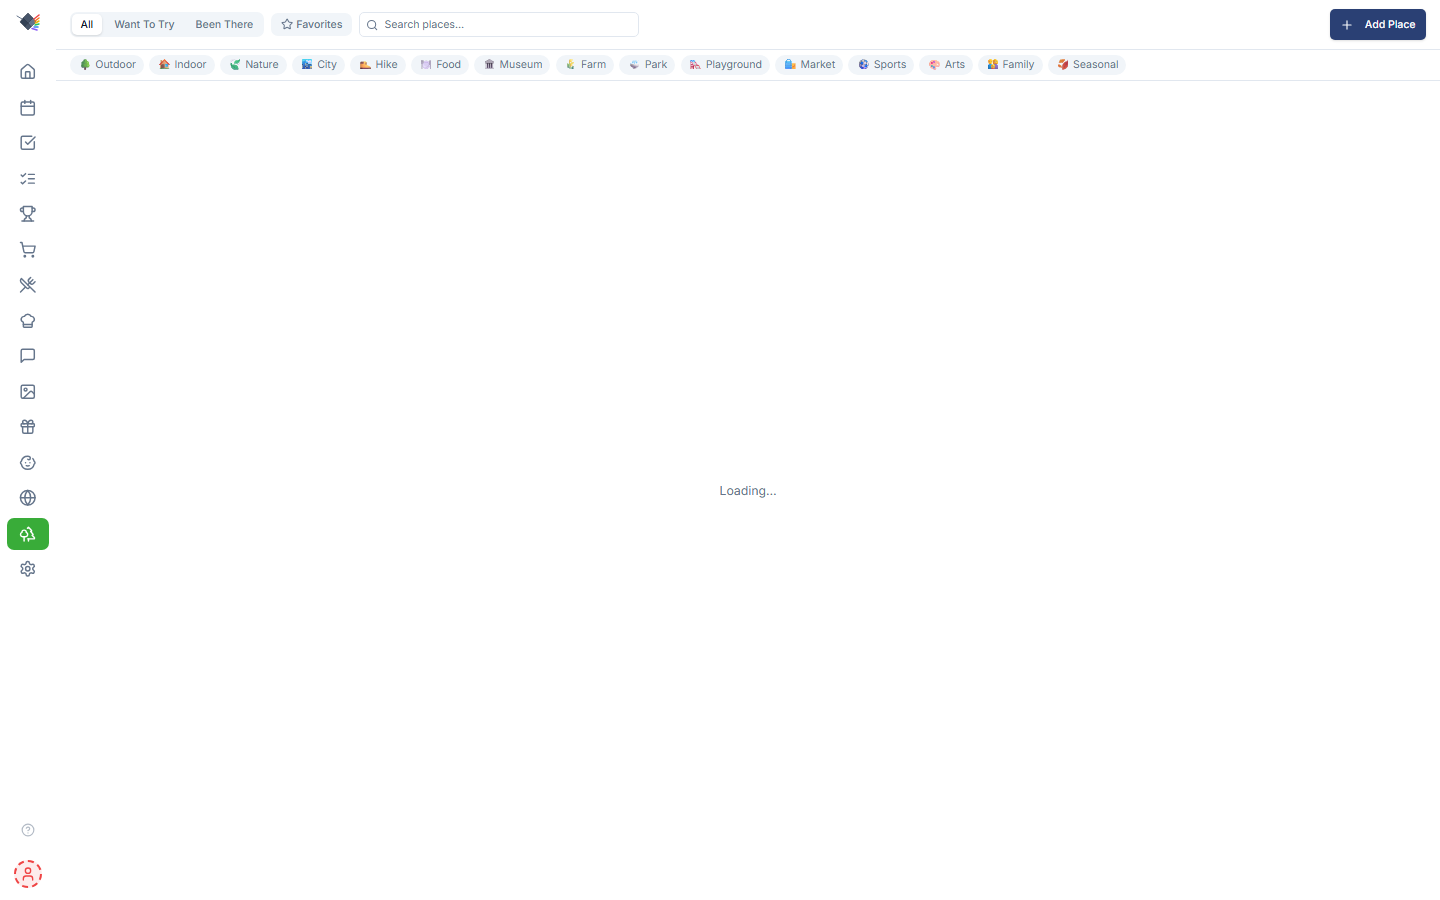
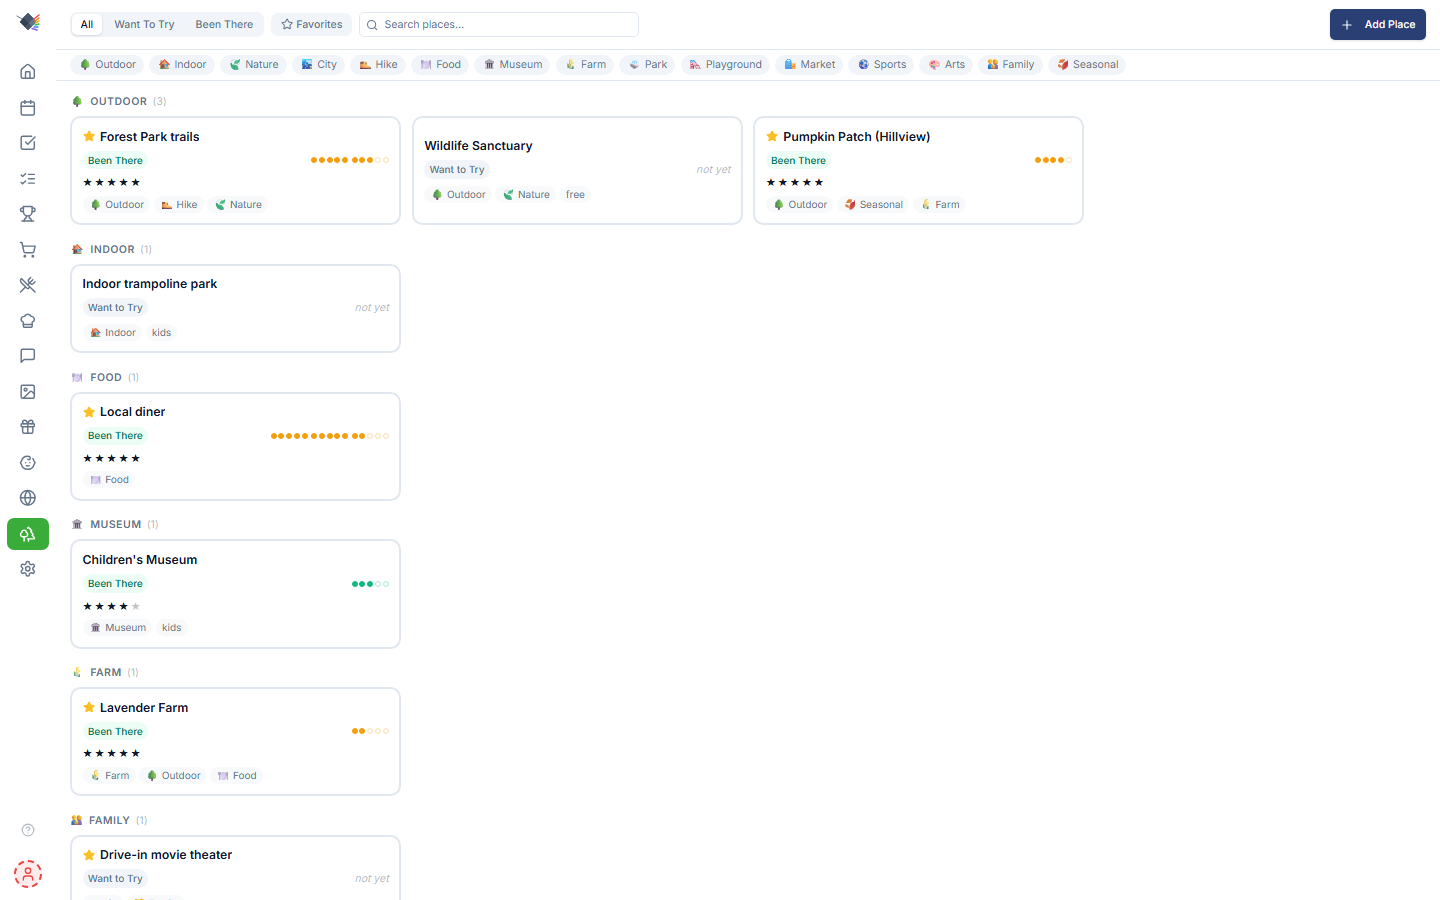
fix(dashboard): mobile cards never populated with data (#47)
* fix(dashboard): mobile cards never populated with data

Both Dashboard.tsx and MobileDashboard.tsx were independently calling
useDashboardData(), so every domain hook (useTasks, useEvents, useChores,
etc.) ran twice in parallel against the same URLs. Combined with StrictMode's
dev double-mount, MobileDashboard's useFetch state got stuck at loading:true
indefinitely while the parent Dashboard's mirror fetches resolved successfully
but never reached the mobile tree.

Lift useDashboardData to a single instance in Dashboard.tsx and pass the
result to MobileDashboard as a prop. Halves the network traffic on dashboard
load and eliminates the race.

Also: fix screenshot capture's waitForContentReady to match the Unicode
ellipsis used in WeekendView's "Loading…" indicator (previously only matched
three literal periods), and bump weekend.png settleMs as a safety margin.
The stale weekend.png in docs/demos showed the loading state for this reason;
regenerated alongside dashboard-mobile.png.

* test(openmeteo): make hourly times test time-of-day-independent

The test planted fixture hours 09:00 / 10:00 / 11:00 today, but the
implementation filters to (now - 1h, now + 12h], so any CI run after
12:00 Chicago time would see all three hours fall outside the window
and the assertion would fail. The original commit happened to land in
the morning Chicago time, so it passed at write time and then started
failing as soon as a CI run landed after lunch.
[…]

diff --git a/src/lib/integrations/__tests__/openmeteo.test.ts b/src/lib/integrations/__tests__/openmeteo.test.ts
@@ -279,9 +279,28 @@ describe('openmeteo.fetchWeatherData', () => {
 
   it('parses hourly times as wall-clock-in-location', async () => {
     // Same regression as the sunrise test, applied to the hourly forecast.
-    const today = localDate(0, 'America/Chicago');
+    // Build the fixture hours relative to `now` in Chicago so the (now-1h, now+12h]
+    // filter window always includes them — otherwise the test is time-of-day
+    // sensitive and fails on CI runs that happen too late in the day.
+    const chicagoNow = new Intl.DateTimeFormat('en-CA', {
+      timeZone: 'America/Chicago',
+      year: 'numeric',
+      month: '2-digit',
+      day: '2-digit',
+      hour: '2-digit',
+      minute: '2-digit',
+      hour12: false,
+    }).formatToParts(new Date());
+    const part = (type: string) => chicagoNow.find((p) => p.type === type)!.value;
+    const baseHour = Number(part('hour'));
+    const ymd = `${part('year')}-${part('month')}-${part('day')}`;
+    const h1 = String(baseHour).padStart(2, '0');
+    const h2 = String((baseHour + 1) % 24).padStart(2, '0');
+    const h3 = String((baseHour + 2) % 24).padStart(2, '0');
+    const fixtureHours = [`${h1}:00`, `${h2}:00`, `${h3}:00`];
+
     const response = buildResponse('America/Chicago');
-    response.hourly.time = [`${today}T09:00`, `${today}T10:00`, `${today}T11:00`];
+    response.hourly.time = fixtureHours.map((h) => `${ymd}T${h}`);
     response.hourly.temperature_2m = [70, 71, 72];
     response.hourly.precipitation_probability = [0, 0, 0];
     response.hourly.precipitation = [0, 0, 0];
@@ -295,9 +314,9 @@ describe('openmeteo.fetchWeatherData', () => {
     const { fetchWeatherData } = await import('../openmeteo');
     const result = await fetchWeatherData();
 
-    // Hourly is filtered to a 12-hour window around `now`, so at least one of
-    // the three fixture hours should survive. Whichever does, its wall-clock
-    // in America/Chicago must read back as one of "09:00" / "10:00" / "11:00".
+    // All three fixture hours straddle `now` so the (now-1h, now+12h] window
+    // catches them. Each surviving hour's wall-clock in Chicago must match
+    // one of the three we planted.
     expect(result.hourly && result.hourly.length).toBeGreaterThan(0);
     if (result.hourly && result.hourly.length > 0) {
       const formatter = new Intl.DateTimeFormat('en-US', {
@@ -307,7 +326,7 @@ describe('openmeteo.fetchWeatherData', () => {
         hour12: false,
       });
       const wallClocks = result.hourly.map((h) => formatter.format(h.time));
-      expect(wallClocks.every((wc) => ['09:00', '10:00', '11:00'].includes(wc))).toBe(true);
+      expect(wallClocks.every((wc) => fixtureHours.includes(wc))).toBe(true);
     }
   });
 

diff --git a/src/components/dashboard/MobileDashboard.tsx b/src/components/dashboard/MobileDashboard.tsx
@@ -22,7 +22,7 @@ import {
 import { CSS } from '@dnd-kit/utilities';
 import { restrictToVerticalAxis } from '@dnd-kit/modifiers';
 import { cn } from '@/lib/utils';
-import { useDashboardData } from './useDashboardData';
+import type { useDashboardData } from './useDashboardData';
 import { useMobileCardOrder, loadHiddenCards } from './useMobileCardOrder';
 import { useBusTracking } from '@/lib/hooks/useBusTracking';
 import {
@@ -66,8 +66,11 @@ function SortableCard({ id, children }: { id: string; children: React.ReactNode 
   );
 }
 
-export const MobileDashboard = memo(function MobileDashboard() {
-  const data = useDashboardData();
+export interface MobileDashboardProps {
+  data: ReturnType<typeof useDashboardData>;
+}
+
+export const MobileDashboard = memo(function MobileDashboard({ data }: MobileDashboardProps) {
   const { order, setOrder } = useMobileCardOrder();
   const { routes: busRoutes } = useBusTracking();
   const [hiddenCards] = useState(loadHiddenCards);

diff --git a/scripts/capture-screenshots.ts b/scripts/capture-screenshots.ts
@@ -246,7 +246,7 @@ const SCREENSHOTS: CaptureSpec[] = [
     name: 'weekend',
     url: '/weekend',
     description: 'Weekend Ideas activity board',
-    settleMs: 1000,
+    settleMs: 3000,
   },
 
   // ─── Messages ──────────────────────────────────────────────
@@ -294,7 +294,7 @@ async function waitForContentReady(page: Page, settleMs = 3500): Promise<void> {
       () => {
         const text = document.body.innerText.trim();
         if (!text || text === 'Prism') return false;
-        if (/Loading[\s\w]*\.\.\./i.test(text)) return false;
+        if (/Loading[\s\w]*(\.\.\.|…)/i.test(text)) return false;
         // Skeleton placeholders (animate-pulse) and spinners (animate-spin)
         // are both indicators that content is still loading.
         const loaders = document.querySelectorAll(

diff --git a/src/components/dashboard/Dashboard.tsx b/src/components/dashboard/Dashboard.tsx
@@ -316,7 +316,7 @@ export function Dashboard({
         onLogout={activeUser ? clearActiveUser : undefined}
         onLogin={handleLogin}
       >
-        <MobileDashboard />
+        <MobileDashboard data={data} />
       </AppShell>
     );
   }

diff --git a/docs/CHANGELOG.md b/docs/CHANGELOG.md
@@ -2,6 +2,14 @@
 
 All notable changes to Prism are documented in this file.
 
+## Unreleased
+
+### Bug Fixes
+- **Mobile dashboard data never populated**: Cards stayed on "No tasks" / "No upcoming events" / "Lists are clear" even though `/api/*` returned real data. Both `Dashboard.tsx` and `MobileDashboard.tsx` were independently calling `useDashboardData()`, causing every domain hook to fire twice in parallel against the same URL. The duplicate inside StrictMode's dev double-mount left MobileDashboard's `useFetch` permanently stuck at `loading:true, data:[]`. Fix: lift the data hook to a single call in `Dashboard.tsx` and pass it to `MobileDashboard` as a prop — halves the network traffic on dashboard load and eliminates the race.
+
+### Internal
+- **Screenshot capture: detect Unicode ellipsis in loading states**: `waitForContentReady` regex now matches both `...` and `…` so the weekend page (which renders "Loading…") no longer gets captured mid-fetch. Bumped `weekend` `settleMs` 1000 → 3000 as a safety margin.
+
 ## [1.8.0] – 2026-05-17
 
 > Send-to-Kroger cart push (every Kroger banner, OAuth per-user, SKU picker with normalized unit prices and per-item caching), recipe import from pasted OCR text with section-aware ingredients and ½×–4× scaling pills, server-side calendar sync cron with a ±90/365-day window, mobile PWA becomes agenda-only, plus the foundation Voice API for the upcoming Alexa / Home Assistant integration. Same `git pull && docker-compose up -d --build` upgrade.
